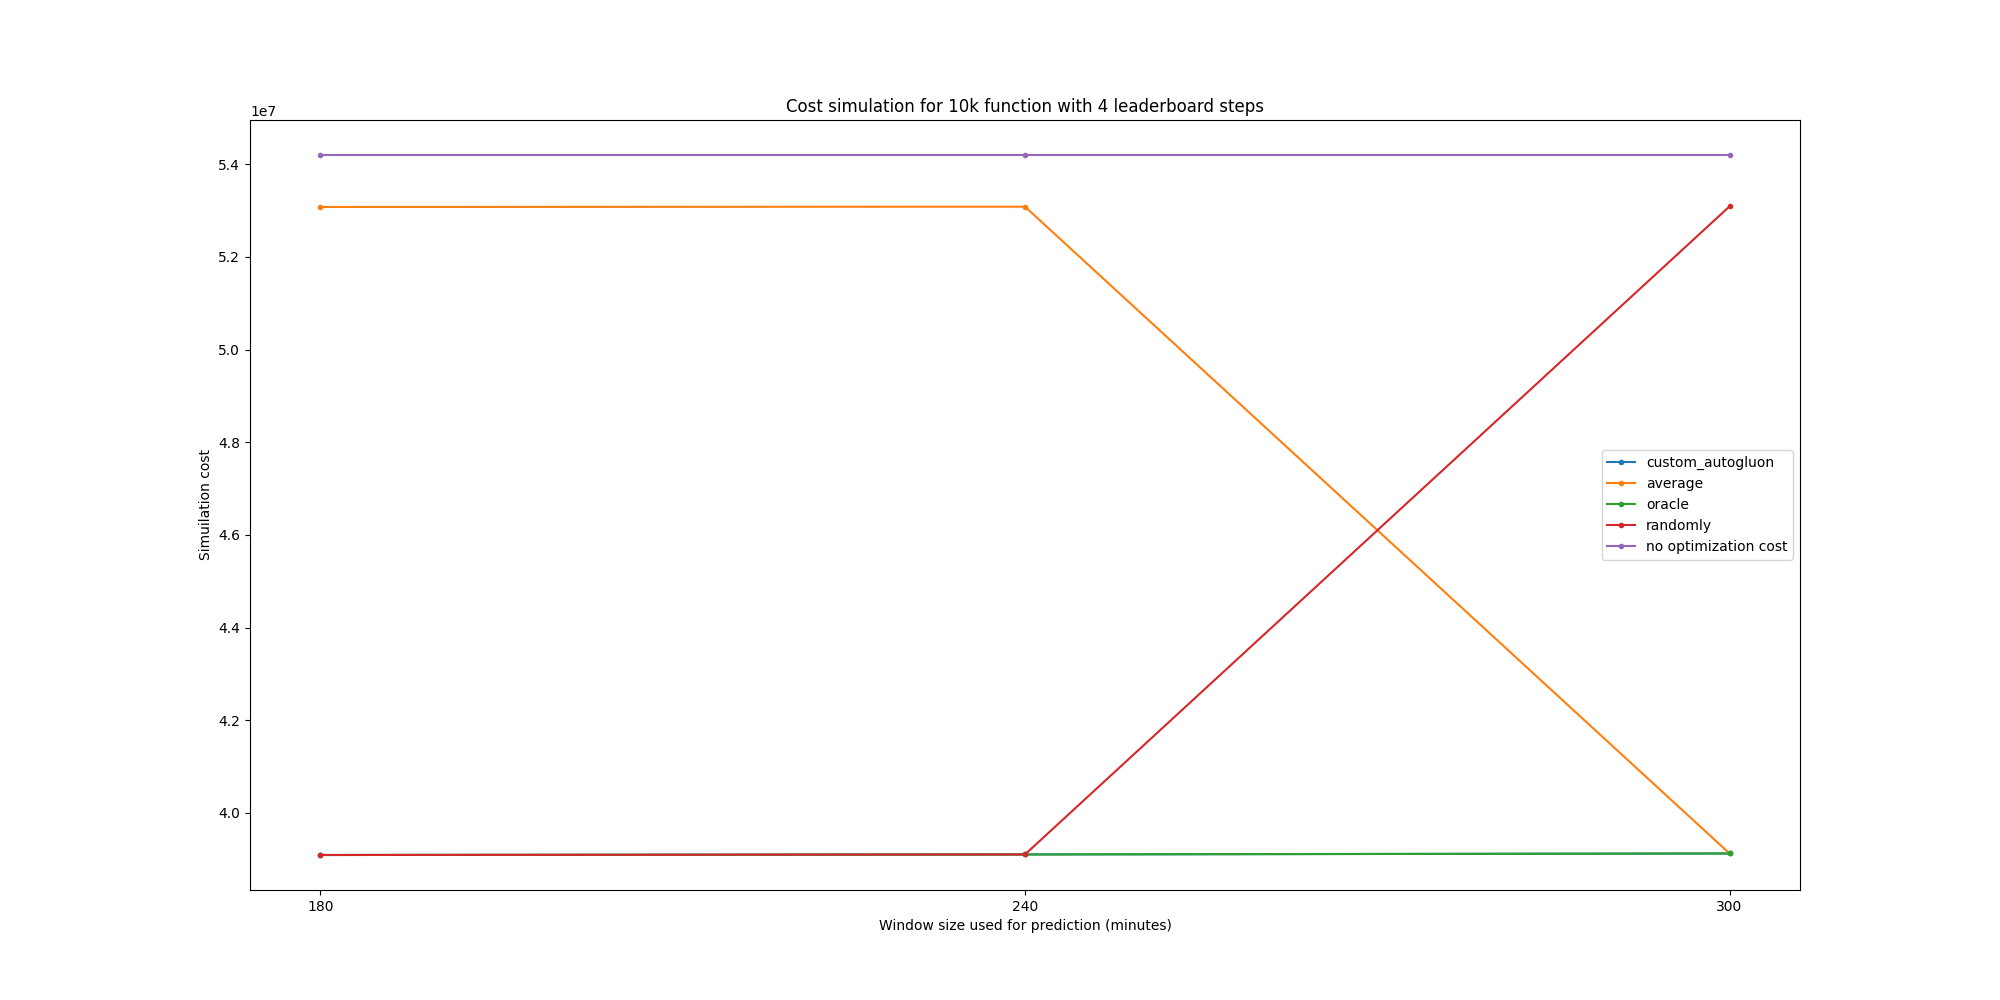
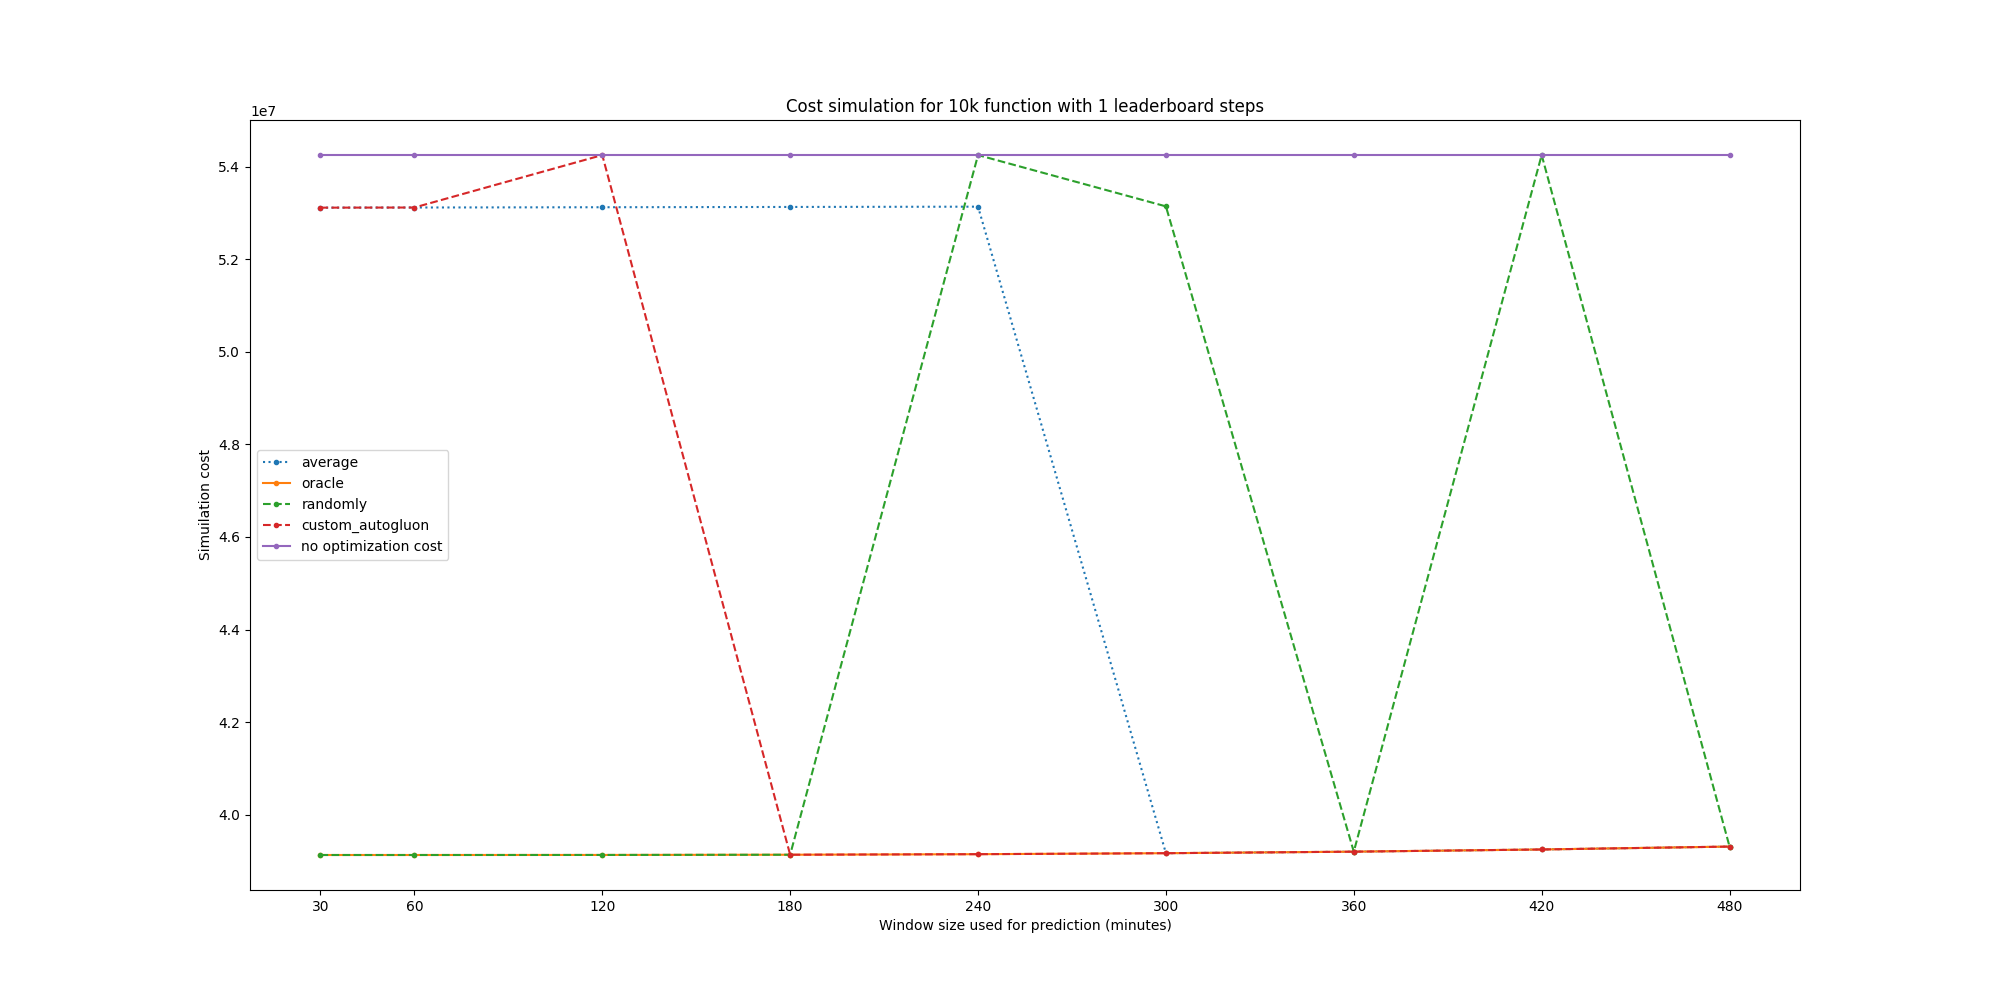
improving oracle and plto compartion

diff --git a/data-forecast/plots/plot_cost_comparation.py b/data-forecast/plots/plot_cost_comparation.py
@@ -96,9 +96,9 @@ def get_normal_cost(simulation_dir, simulation_start, simulation_end, simulation
 
     return simulation_cost
 
-def plot_simulation_cost(model_types, prediction_window):
+def plot_simulation_cost(model_types, prediction_window, line_style):
 
-    for type in model_types:
+    for idx, type in enumerate(model_types):
 
         model_cost = []
         for window_size in prediction_window:
@@ -107,7 +107,7 @@ def plot_simulation_cost(model_types, prediction_window):
             model_cost.append( simulation_cost )
 
         print(f"simulation_cost of {type} for windows {prediction_window} and picking top {optimized_traces_in_each_leaderboard} in the leaderboard: {model_cost}" )
-        plt.plot(prediction_window, model_cost, label=type, marker=".")
+        plt.plot(prediction_window, model_cost, label=type, linestyle=line_style[idx], marker=".")
 
 def plot_normal_cost(model_types, prediction_window):
 
@@ -133,9 +133,10 @@ fig = plt.figure(figsize=(20, 10))
 #prediction_window = [5, 10, 20, 50, 100, 200, 400, 800, 1440, 1600, 2880]
 #plot_simulation_cost(model_types, prediction_window)
 
-model_types = ["custom_autogluon", "average", "oracle", "randomly"]
-prediction_window = [30, 60, 120, 180, 240, 300]
-plot_simulation_cost(model_types, prediction_window)
+model_types = ["average", "oracle", "randomly", "custom_autogluon"]
+line_style = [":", "-", "--", "--"]
+prediction_window = [30, 60, 120, 180, 240, 300, 360, 420, 480]
+plot_simulation_cost(model_types, prediction_window, line_style)
 plot_normal_cost(model_types, prediction_window)
 
 
@@ -146,7 +147,7 @@ plot_normal_cost(model_types, prediction_window)
 plt.xticks(prediction_window)
 plt.legend()
 #plt.xscale('log',base=2) 
-plt.title("Cost simulation for 10k function with 4 leaderboard steps")
+plt.title(f"Cost simulation for 10k function with {optimized_traces_in_each_leaderboard} leaderboard steps")
 plt.xlabel("Window size used for prediction (minutes)")
 plt.ylabel("Simuilation cost")
 plt.savefig('models_comparation.png')

diff --git a/data-forecast/predictor/oracle/oracle_model_predictor.py b/data-forecast/predictor/oracle/oracle_model_predictor.py
@@ -1,13 +1,5 @@
 #load all the required packages
-import pandas as pd
-import numpy as np
-import time
 import shared
-from autogluon.timeseries import TimeSeriesDataFrame, TimeSeriesPredictor
-import stumpy
-import matplotlib.pyplot as plt
-
-
 
 #######################################################
 ################## Online processing ##################
